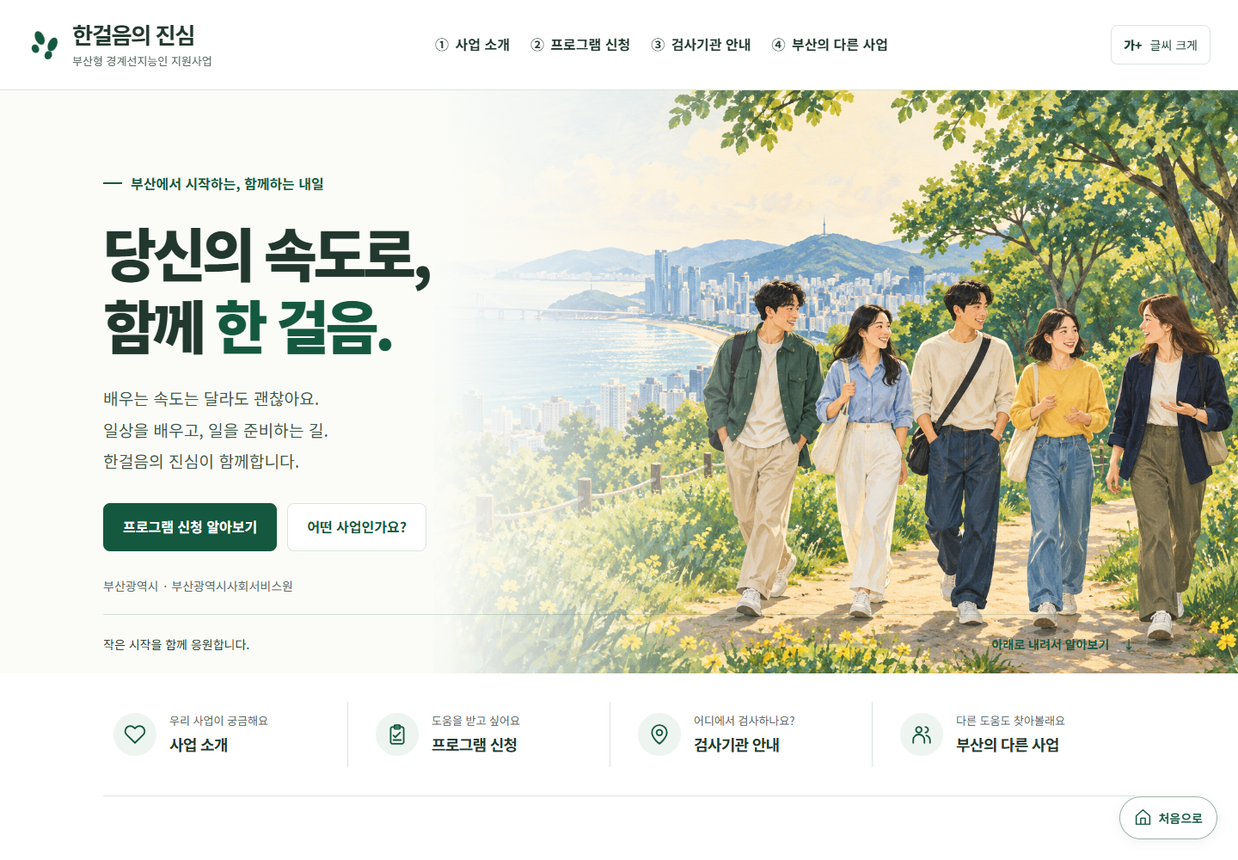
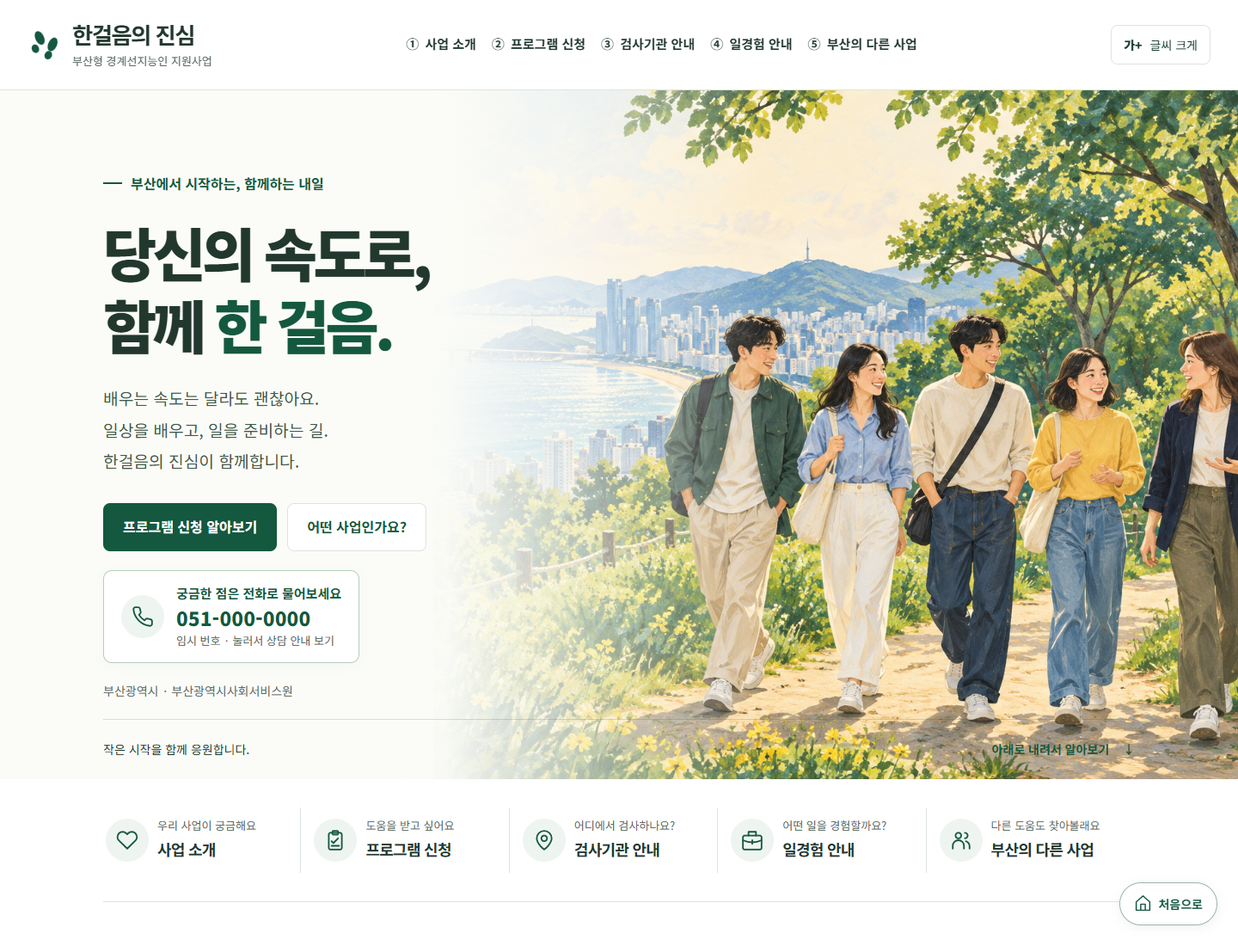
Add files via upload

diff --git a/backup/2026-10-06-before-update-1791297581331/index.html b/backup/2026-10-06-before-update-1791297581331/index.html
@@ -20,8 +20,7 @@
 <a href="#about"><span aria-hidden="true">①</span> 사업 소개</a>
 <a href="#apply"><span aria-hidden="true">②</span> 프로그램 신청</a>
 <a href="#partners"><span aria-hidden="true">③</span> 검사기관 안내</a>
-<a href="#experience"><span aria-hidden="true">④</span> 일경험 안내</a>
-<a href="#local"><span aria-hidden="true">⑤</span> 부산의 다른 사업</a>
+<a href="#local"><span aria-hidden="true">④</span> 부산의 다른 사업</a>
 </nav>
 <button class="text-control" id="text-size" type="button" aria-pressed="false"><span aria-hidden="true">가+</span> 글씨 크게</button>
 </div>
@@ -35,7 +34,6 @@
 <h1 id="hero-title">당신의 속도로,<br>함께 <span>한 걸음.</span></h1>
 <p class="hero-description">배우는 속도는 달라도 괜찮아요.<br>일상을 배우고, 일을 준비하는 길.<br>한걸음의 진심이 함께합니다.</p>
 <div class="hero-actions"><a class="button primary" href="#apply">프로그램 신청 알아보기</a><a class="button light" href="#about">어떤 사업인가요?</a></div>
-<button class="hero-contact" type="button" id="contact-open" aria-haspopup="dialog" aria-controls="contact-dialog"><span class="contact-icon" data-icon="phone"></span><span><strong>궁금한 점은 전화로 물어보세요</strong><span class="contact-number" data-contact-number>051-000-0000</span><small data-contact-temporary>임시 번호 · 눌러서 상담 안내 보기</small></span></button>
 <p class="hero-note">부산광역시 · 부산광역시사회서비스원</p>
 </div>
 </div>
@@ -46,7 +44,6 @@
 <a href="#about"><span class="quick-icon" data-icon="heart"></span><span><small>우리 사업이 궁금해요</small><strong>사업 소개</strong></span></a>
 <a href="#apply"><span class="quick-icon" data-icon="clipboard"></span><span><small>도움을 받고 싶어요</small><strong>프로그램 신청</strong></span></a>
 <a href="#partners"><span class="quick-icon" data-icon="pin"></span><span><small>어디에서 검사하나요?</small><strong>검사기관 안내</strong></span></a>
-<a href="#experience"><span class="quick-icon" data-icon="briefcase"></span><span><small>어떤 일을 경험할까요?</small><strong>일경험 안내</strong></span></a>
 <a href="#local"><span class="quick-icon" data-icon="people"></span><span><small>다른 도움도 찾아볼래요</small><strong>부산의 다른 사업</strong></span></a>
 </div>
 
@@ -62,16 +59,6 @@
 <article><span class="line-icon" data-icon="sun"></span><h4>가족과 아이를 위한 활동</h4><p>부모 교육과 아이들이<br>함께하는 축구 활동을 도와요.</p></article>
 </div><p class="muted">모임·부모 교육·축구 활동의 일정은 별도 안내를 확인해 주세요.</p></div>
 </div>
-<aside class="awareness-panel" aria-labelledby="awareness-title">
-<div class="awareness-heading"><p class="section-number">숫자로 알아보는 우리 이웃</p><h3 id="awareness-title">나만 겪는 어려움이 아니에요.</h3><p>경계선지능인은 우리 주변에서 함께 살아가는 이웃입니다.</p></div>
-<div class="awareness-grid">
-<figure class="population-figure"><figcaption><span>전체 인구 중 추정 비율</span><strong>약 <em>13.6</em>%</strong><span>100명 중 약 14명으로 생각하면 쉬워요.</span></figcaption><div class="population-waffle" aria-hidden="true"><span class="highlight"></span><span class="highlight"></span><span class="highlight"></span><span class="highlight"></span><span class="highlight"></span><span class="highlight"></span><span class="highlight"></span><span class="highlight"></span><span class="highlight"></span><span class="highlight"></span><span class="highlight"></span><span class="highlight"></span><span class="highlight"></span><span class="highlight"></span><span></span><span></span><span></span><span></span><span></span><span></span><span></span><span></span><span></span><span></span><span></span><span></span><span></span><span></span><span></span><span></span><span></span><span></span><span></span><span></span><span></span><span></span><span></span><span></span><span></span><span></span><span></span><span></span><span></span><span></span><span></span><span></span><span></span><span></span><span></span><span></span><span></span><span></span><span></span><span></span><span></span><span></span><span></span><span></span><span></span><span></span><span></span><span></span><span></span><span></span><span></span><span></span><span></span><span></span><span></span><span></span><span></span><span></span><span></span><span></span><span></span><span></span><span></span><span></span><span></span><span></span><span></span><span></span><span></span><span></span><span></span><span></span><span></span><span></span><span></span><span></span><span></span><span></span><span></span><span></span><span></span><span></span><span></span><span></span><span></span><span></span></div><p class="chart-caption"><span aria-hidden="true"></span> 초록 칸은 100명 중 약 14명을 뜻해요.</p></figure>
-<div class="busan-stat"><span class="line-icon" data-icon="people"></span><p>부산에서는</p><strong>약 <em>44만 5천</em> 명</strong><p>경계선지능인으로 추정해요.</p><small>2024년 9월 부산 인구를 기준으로 계산한 수치예요.</small></div>
-</div>
-<div class="awareness-message"><strong>필요한 도움을 일찍 만나면, 함께할 길이 넓어져요.</strong><p>검사로 나를 알아보고, 나에게 맞는 교육을 받으며,<br class="desktop-only"> 일상과 사회생활을 차근차근 준비하도록 돕는 것이 이 사업의 목적이에요.</p></div>
-<p class="statistics-source">출처: 부산연구원 「부산시 경계선지능인 지원방안」(2025), 본문 7~8쪽.<br>정확히 세어 본 인원은 아니에요. 보고서의 추정 비율 13.59%를 반올림했어요.</p>
-<div class="research-links"><a class="text-link" href="https://data.bdi.re.kr/Home/RPTView.mbz?action=MAPP_0000000007&amp;schIdx=2763" target="_blank" rel="noopener noreferrer">연구원 자료 보기<span class="sr-only"> (새 창)</span></a><a class="text-link" href="%EB%B6%80%EC%82%B0%EC%8B%9C%20%EA%B2%BD%EA%B3%84%EC%84%A0%EC%A7%80%EB%8A%A5%EC%9D%B8%20%EC%A7%80%EC%9B%90%EB%B0%A9%EC%95%88.pdf#page=19" target="_blank" rel="noopener noreferrer">연구보고서 PDF 보기<span class="sr-only"> (새 창)</span></a></div>
-</aside>
 </section>
 
 <section class="apply-section section" id="apply" aria-labelledby="apply-title"><div class="wrap">
@@ -97,27 +84,13 @@
 </div><p class="muted partner-footnote">방문 전 전화로 장소와 예약 방법을 확인해 주세요. 협약이 정해지면 기관 정보를 추가합니다.</p>
 </section>
 
-<section class="experience-section section" id="experience" aria-labelledby="experience-title"><div class="wrap">
-<div class="section-heading row-heading"><div><p class="section-number">04 · 일경험처 연계 기관</p><h2 id="experience-title">나에게 맞는 일,<br>직접 경험하며 찾아봐요.</h2><p>일경험은 실제 일하는 곳에서 일을 배워 보는 활동이에요.<br>관심 있는 분야를 알아보고, 나에게 맞는 일을 찾아가요.</p></div><span class="outline-label">연계 기관 찾는 중</span></div>
-<div class="experience-notice"><span class="line-icon" data-icon="info"></span><p>아래는 앞으로 준비하려는 일경험의 예시예요.<br>기관과 약속이 정해지면 장소와 참여 방법을 안내할게요.</p></div>
-<div class="experience-grid"><article class="experience-card"><div class="experience-top"><span class="experience-icon" data-icon="coffee"></span><span class="badge">연계 준비 중</span></div><h3>바리스타 일경험</h3><p>음료를 만들고, 손님을 맞이하는 일을 경험해요.</p><ul class="check-list"><li>커피와 음료 만들기</li><li>주문 받기와 매장 정리</li></ul><div class="experience-status"><strong>기관이 정해지면 알려드려요.</strong><span>장소 · 일정 · 참여 방법 안내 예정</span></div></article>
-<article class="experience-card"><div class="experience-top"><span class="experience-icon" data-icon="palette"></span><span class="badge">연계 준비 중</span></div><h3>디자인 일경험</h3><p>그림과 글을 활용해 안내 자료를 만드는 일을 경험해요.</p><ul class="check-list"><li>그림과 글 배치하기</li><li>간단한 홍보물 만들기</li></ul><div class="experience-status"><strong>기관이 정해지면 알려드려요.</strong><span>장소 · 일정 · 참여 방법 안내 예정</span></div></article>
-<article class="experience-card"><div class="experience-top"><span class="experience-icon" data-icon="suitcase"></span><span class="badge">연계 준비 중</span></div><h3>여행사 일경험</h3><p>여행을 준비하는 데 필요한 일을 경험해요.</p><ul class="check-list"><li>여행 안내 자료 정리하기</li><li>일정과 예약 업무 돕기</li></ul><div class="experience-status"><strong>기관이 정해지면 알려드려요.</strong><span>장소 · 일정 · 참여 방법 안내 예정</span></div></article>
-<article class="experience-card"><div class="experience-top"><span class="experience-icon" data-icon="roller"></span><span class="badge">연계 준비 중</span></div><h3>도배·장판 일경험</h3><p>벽지와 바닥재 작업을 돕는 일을 경험해요.</p><ul class="check-list"><li>도구와 재료 준비하기</li><li>안전교육 후 작업 돕기</li></ul><div class="experience-status"><strong>기관이 정해지면 알려드려요.</strong><span>장소 · 일정 · 참여 방법 안내 예정</span></div></article></div>
-<p class="experience-footnote">실제로 경험하는 일은 참여자의 관심과 기관 상황에 따라 달라질 수 있어요.</p>
-</div></section>
-
 <section class="local-section section" id="local" aria-labelledby="local-title"><div class="wrap">
-<div class="section-heading"><p class="section-number">05 · 부산의 다른 사업</p><h2 id="local-title">부산 곳곳에, 함께할 곳이 있어요.</h2><p>다른 기관의 프로그램도 알아보세요.<br>신청 기간과 참여 조건은 기관마다 달라요.</p></div>
+<div class="section-heading"><p class="section-number">04 · 부산의 다른 사업</p><h2 id="local-title">부산 곳곳에, 함께할 곳이 있어요.</h2><p>다른 기관의 프로그램도 알아보세요.<br>신청 기간과 참여 조건은 기관마다 달라요.</p></div>
 <div class="local-grid">
 <article class="local-card"><div class="local-card-top"><span class="region-label">수영구</span><span class="line-icon" data-icon="briefcase"></span></div><h3>차차스테이션</h3><p>경계선지능 청년이 일을 준비하고,<br>사회생활에 필요한 것을 배우는 사업이에요.<br>나에게 맞는 직무교육을 단계별로 배워요.</p><a class="button outlined" href="https://www.mois.go.kr/frt/bbs/type002/commonSelectBoardArticle.do?bbsId=BBSMSTR_000000000205&amp;nttId=114051" target="_blank" rel="noopener noreferrer">사업 소개 보기<span class="sr-only"> (새 창)</span></a><span class="source-caption">행정안전부 공개 사업 소개 · 현재 모집은 별도 확인</span></article>
 <article class="local-card"><div class="local-card-top"><span class="region-label">금정구</span><span class="line-icon" data-icon="book"></span></div><h3>느린학습자 평생교육</h3><p>성인 느린학습자를 위한 배움 프로그램이에요.<br>나를 이해하고, 앞으로 할 일을 생각하는<br>교육과 학습모임 소식을 확인할 수 있어요.</p><a class="button outlined" href="https://www.geumjeong.go.kr/board/view.geumj?boardId=BBS_0000223&amp;dataSid=977932&amp;menuCd=DOM_000000805001000000" target="_blank" rel="noopener noreferrer">교육 안내 보기<span class="sr-only"> (새 창)</span></a><span class="source-caption">금정구 평생학습 포털 · 현재 모집은 별도 확인</span></article>
-<article class="local-card"><div class="local-card-top"><span class="region-label">금정구 · 부산대학교</span><span class="line-icon" data-icon="book"></span></div><h3>PNU 미리내대학</h3><p>성인 느린학습자가 일상과 사람들과 지내는 방법을 배우는 교육이에요.<br>문화와 예술 활동을 함께하는 3년 과정이에요. 대학 학위가 나오는 과정은 아니에요.</p><a class="button outlined" href="https://sce.pusan.ac.kr/page?cateSeq=&amp;mainbbsTabIndex=0&amp;menuCD=000000000000561&amp;mode=DETAIL&amp;seq=2567&amp;typeSeqNo=1" target="_blank" rel="noopener noreferrer">미리내대학 안내 보기<span class="sr-only"> (새 창)</span></a><span class="source-caption">부산대학교 미래시민교육원 · 모집 일정 별도 확인</span></article>
-<article class="local-card"><div class="local-card-top"><span class="region-label">연제구 등 · 협동조합</span><span class="line-icon" data-icon="sprout"></span></div><h3>매일매일즐거워</h3><p>느린학습자를 위한 배움과 일할 기회를 만드는 곳이에요.<br>채소를 기르는 농장과 샐러드 만들기 등 여러 일을 바탕으로 직무교육을 소개하고 있어요.</p><a class="button outlined" href="https://bsec.or.kr/board/view/board_book?idx=5754" target="_blank" rel="noopener noreferrer">기관 소개 보기<span class="sr-only"> (새 창)</span></a><span class="source-caption">부산사회적경제지원센터 공개 자료 · 현재 참여 방법 문의</span></article>
-<article class="local-card"><div class="local-card-top"><span class="region-label">남구</span><span class="line-icon" data-icon="people"></span></div><h3>남구장애인복지관</h3><p>느린학습 아동이 사람들과 지내는 힘을 키우도록 돕는 프로그램을 운영한 곳이에요.<br>부모가 아이를 돕는 방법을 배우는 활동도 함께 소개하고 있어요.</p><a class="button outlined" href="https://www.namgurc.or.kr/about/sub3.php" target="_blank" rel="noopener noreferrer">복지관 안내 보기<span class="sr-only"> (새 창)</span></a><span class="source-caption">복지관 공개 사업 이력 · 현재 운영과 모집 별도 확인</span></article>
-<article class="local-card"><div class="local-card-top"><span class="region-label">남구 · 평생학습관</span><span class="line-icon" data-icon="book"></span></div><h3>남구 평생교육·상담 지원</h3><p>경계선지능인과 가족을 위한 검사·상담과 배움 프로그램을 안내해요.<br>마음을 표현하고 생활에 필요한 것을 배우는 교육 소식을 확인해 보세요.</p><a class="button outlined" href="https://lll.busan.go.kr/lll/index.do?bbsAttrbCode=BBSA03&amp;bbsId=BBS_00029&amp;bbsTyCode=BBST03&amp;menu_id=00003220&amp;menu_link=%2Ficms%2Fbbs%2FselectBoardArticle.do&amp;nttId=5951" target="_blank" rel="noopener noreferrer">프로그램 안내 보기<span class="sr-only"> (새 창)</span></a><span class="source-caption">부산평생학습플랫폼 공개 안내 · 현재 모집 별도 확인</span></article>
 </div>
-<aside class="cafe-panel"><div><h3>더 많은 프로그램이 궁금한가요?</h3><p>부산의 다른 기관과 새로운 모집 소식을<br>카페에서 함께 확인해 보세요.</p></div><a class="button light" href="https://cafe.naver.com/f-e/cafes/31763667/menus/25?viewType=W" target="_blank" rel="noopener noreferrer">카페에서 소식 보기<span class="sr-only"> (새 창)</span></a></aside>
+<aside class="cafe-panel"><div><h3>더 많은 프로그램이 궁금한가요?</h3><p>매일매일즐거워, 미리내대학, 남구장애인복지관 등<br>관련 프로그램 소식을 카페에서 확인해 보세요.</p></div><a class="button light" href="https://cafe.naver.com/f-e/cafes/31763667/menus/25?viewType=W" target="_blank" rel="noopener noreferrer">카페에서 소식 보기<span class="sr-only"> (새 창)</span></a></aside>
 <aside class="notice"><span class="line-icon" data-icon="info"></span><div><h3>신청 전에 꼭 확인해 주세요.</h3><p>같은 기간에 여러 사업의 지원을 받을 수 없는 경우가 있어요.<br>이미 참여 중인 프로그램이 있다면, 신청 전에 담당자에게 알려주세요.</p></div></aside>
 </div></section>
 
@@ -126,11 +99,4 @@
 <footer><div class="wrap footer-inner"><div><strong>한걸음의 진심</strong><p>부산형 경계선지능인 지원사업</p><small>부산광역시 · (재)부산광역시사회서비스원</small></div><div><a href="https://busan.pass.or.kr/" target="_blank" rel="noopener noreferrer">부산사회서비스원 홈페이지<span class="sr-only"> (새 창)</span></a><p>사업 안내와 모집 소식을 확인해 주세요.</p><small>이 페이지는 홈페이지 제작 초안입니다.</small></div></div></footer>
 <a class="home-float" href="#home"><span data-icon="home"></span> 처음으로</a>
 <dialog id="application-dialog" aria-labelledby="dialog-title" aria-describedby="dialog-description"><div class="dialog-content"><span class="line-icon" data-icon="clipboard"></span><h2 id="dialog-title">신청 페이지를 준비하고 있어요.</h2><p id="dialog-description">신청이 시작되면 이 버튼으로 신청할 수 있어요.<br>부산사회서비스원에서 모집 소식을 확인해 주세요.</p><a class="button primary" href="https://busan.pass.or.kr/" target="_blank" rel="noopener noreferrer">사회서비스원 소식 보기<span class="sr-only"> (새 창)</span></a><button class="button outlined" id="dialog-close" type="button">안내 닫기</button></div></dialog>
-<dialog id="contact-dialog" aria-labelledby="contact-title" aria-describedby="contact-description"><div class="dialog-content">
-<span class="line-icon" data-icon="phone"></span><h2 id="contact-title">궁금한 점을 함께 알아봐요.</h2>
-<p id="contact-description">프로그램 신청이나 지원 내용이 궁금한가요?<br>자세한 상담을 원하시면 아래 번호로 연락해 주세요.</p>
-<div class="contact-dialog-number" data-contact-number>051-000-0000</div>
-<p class="temporary-note" id="contact-temporary">현재는 임시 번호예요.<br>실제 상담 번호가 정해지면 안내해 드릴게요.</p>
-<a class="button primary" id="contact-call" hidden>이 번호로 전화하기</a><button class="button outlined" id="contact-close" type="button">안내 닫기</button>
-</div></dialog>
 </body></html>

diff --git a/backup/2026-10-06-before-update-1791297581331/styles.css b/backup/2026-10-06-before-update-1791297581331/styles.css
@@ -17,37 +17,3 @@ dialog{max-width:500px;width:calc(100% - 40px);border:1px solid var(--line);bord
 
 /* Keep cards usable at narrow widths and enlarged text. */
 .program-card,.partner-card,.local-card,.about-right,.definition-panel{min-width:0}.partner-actions{flex-wrap:wrap}.partner-card dd{min-width:0}.support-grid article,.quick-section>a{min-width:0}
-
-/* 2026-10: phone guidance, research infographic and work experiences */
-[hidden]{display:none!important}
-.header nav{gap:18px}.header nav a{font-size:.9375rem}
-.quick-section{grid-template-columns:repeat(5,minmax(0,1fr));gap:12px}.quick-section>a{padding:8px 3px;gap:10px}
-.hero-contact{display:flex;align-items:center;gap:14px;background:white;border:1px solid #b5cdbd;border-radius:10px;text-align:left;color:var(--green);padding:14px 20px;margin-top:22px;max-width:100%;box-shadow:0 3px 15px #173c3008}
-.hero-contact:hover{background:#eff6f0}.contact-icon{display:inline-flex;background:var(--pale);border-radius:50%;padding:12px;flex:none}
-.hero-contact strong{display:block;font-size:.9375rem;line-height:1.6}.contact-number{display:block;font-size:1.4rem;font-weight:800;letter-spacing:.01em;line-height:1.5}
-.hero-contact small{display:block;color:var(--muted);font-size:.8125rem;line-height:1.6}.hero-note{margin-top:20px}
-.contact-dialog-number{font-size:2rem;letter-spacing:.02em;font-weight:800;color:var(--green);margin:22px 0 12px;overflow-wrap:anywhere}
-.temporary-note{background:#f3f6f2;border-radius:8px;padding:14px}
-.awareness-panel{margin-top:56px;padding:36px 40px;background:#f6f8f3;border:1px solid #dce5d9;border-radius:16px}
-.awareness-heading{margin-bottom:30px}.awareness-heading .section-number{margin-bottom:10px}.awareness-heading h3{font-size:1.75rem;margin-bottom:10px}.awareness-heading>p:last-child{color:var(--muted);font-size:1rem;margin:0}
-.awareness-grid{display:grid;grid-template-columns:1.15fr 1fr;gap:40px}
-.population-figure{margin:0;min-width:0}.population-figure figcaption>span{display:block;font-size:1rem;color:var(--muted)}.population-figure figcaption>strong{display:block;font-size:1.5rem;color:var(--green);line-height:1.3;margin:10px 0}
-.population-figure em{font-size:3.75rem;font-weight:800;font-style:normal;letter-spacing:-.06em}
-.population-waffle{display:grid;grid-template-columns:repeat(20,minmax(0,1fr));gap:4px;max-width:380px;margin-top:22px}
-.population-waffle span{aspect-ratio:1;border-radius:3px;background:#d6e1d6}.population-waffle .highlight{background:var(--green)}
-.chart-caption{font-size:.875rem;color:var(--muted);margin:12px 0 0;display:flex;align-items:center;gap:8px}.chart-caption>span{width:11px;height:11px;background:var(--green);border-radius:2px;flex:none}
-.busan-stat{border-left:1px solid #d0ddce;padding-left:40px;display:flex;flex-direction:column;justify-content:center;min-width:0}
-.busan-stat .line-icon{margin-bottom:18px}.busan-stat p{font-size:1rem;margin-bottom:8px;color:var(--muted)}.busan-stat>strong{font-size:1.25rem;line-height:1.5;color:var(--green);margin:0 0 8px;letter-spacing:-.05em}.busan-stat em{font-size:2.3rem;font-style:normal;font-weight:800}.busan-stat small{font-size:.875rem;color:var(--muted)}
-.awareness-message{margin-top:30px;border-top:1px solid #d0ddce;padding-top:24px}.awareness-message>strong{font-size:1.125rem;color:var(--green)}.awareness-message p{font-size:1rem;color:var(--muted);margin:10px 0 0}
-.statistics-source{font-size:.875rem;color:var(--muted);margin:24px 0 0}.research-links{display:flex;gap:24px;flex-wrap:wrap;margin-top:8px}.research-links .text-link{font-size:.9375rem}
-.experience-section{background:#f0f5f2}.experience-notice{display:flex;gap:14px;align-items:flex-start;padding:20px 24px;background:white;border:1px solid var(--line);border-radius:10px;margin-bottom:28px}
-.experience-notice .line-icon{margin:3px 0 0;flex:none}.experience-notice p{margin:0;font-size:1rem;color:var(--muted)}
-.experience-grid{display:grid;grid-template-columns:repeat(4,minmax(0,1fr));gap:20px}.experience-card{padding:25px 22px;background:white;border:1px solid var(--line);border-radius:12px;min-width:0;display:flex;flex-direction:column}
-.experience-top{display:flex;justify-content:space-between;align-items:center;gap:8px;margin-bottom:24px;flex-wrap:wrap}.experience-icon{display:inline-flex;padding:10px;background:var(--pale);color:var(--green);border-radius:10px}
-.experience-card h3{font-size:1.375rem;margin-bottom:14px}.experience-card>p{font-size:1rem;color:var(--muted);margin-bottom:20px}.experience-card .check-list{font-size:.9375rem;margin-bottom:22px}
-.experience-status{margin-top:auto;border-top:1px solid var(--line);padding-top:17px}.experience-status strong,.experience-status span{display:block;font-size:.875rem}.experience-status strong{color:var(--green);margin-bottom:5px}.experience-status span{color:var(--muted)}
-.experience-footnote{font-size:.9375rem;color:var(--muted);margin:22px 0 0}
-@media(max-width:1200px){.header nav{gap:25px}.quick-section{grid-template-columns:repeat(3,minmax(0,1fr));gap:15px}.quick-section>a{border:0}.experience-grid{grid-template-columns:repeat(2,minmax(0,1fr))}}
-@media(max-width:800px){html{scroll-padding-top:220px}.header nav{gap:5px 18px}.header nav a{font-size:.9375rem}.quick-section{grid-template-columns:repeat(2,minmax(0,1fr))}.hero-contact{padding:13px 15px;width:100%;gap:12px}.hero-contact strong{font-size:.9375rem}.hero-contact .contact-icon{padding:10px}.awareness-panel{padding:26px 24px;margin-top:36px}.awareness-heading h3{font-size:1.5rem}.awareness-grid{grid-template-columns:1fr;gap:26px}.busan-stat{border-left:0;border-top:1px solid #d0ddce;padding:24px 0 0}.busan-stat .line-icon{margin-bottom:12px}.population-waffle{gap:3px}.population-figure em{font-size:3rem}.chart-caption{font-size:.8125rem;align-items:flex-start}.busan-stat em{font-size:2rem}.desktop-only{display:none}.research-links{gap:8px 22px}.experience-notice{padding:20px}.experience-card{padding:25px}.large-text .quick-section{grid-template-columns:1fr}.large-text .header nav{gap:2px 12px}.large-text .header nav a{font-size:.8rem}.large-text .contact-number{font-size:1.25rem}.large-text .hero-contact strong{font-size:.85rem}.large-text .hero-contact small{font-size:.7rem}}
-@media(max-width:600px){.experience-grid{grid-template-columns:1fr}}
-@media(max-width:380px){.quick-section{grid-template-columns:1fr}.awareness-panel{padding:24px 20px}.hero-contact{gap:10px;padding:13px 12px}.hero-contact .contact-icon{padding:8px}.contact-dialog-number{font-size:1.6rem}}

diff --git a/backup/2026-10-06-before-update-1791297581331/script.js b/backup/2026-10-06-before-update-1791297581331/script.js
@@ -1,11 +1,6 @@
 "use strict";
 (() => {
   const paths = {
-    coffee: '<path d="M3 8h14v9a4 4 0 0 1-4 4H7a4 4 0 0 1-4-4ZM17 8h2a3 3 0 0 1 0 6h-2M7 2v3M12 2v3"/>',
-    palette: '<path d="M12 3a9 9 0 1 0 0 18h1a2 2 0 0 0 1-3.7 2 2 0 0 1 1-3.7h2a4 4 0 0 0 4-4c0-4-4-6.6-9-6.6Z"/><circle cx="7" cy="9" r="1"/><circle cx="11" cy="6" r="1"/><circle cx="16" cy="8" r="1"/><circle cx="6" cy="14" r="1"/>',
-    suitcase: '<rect x="4" y="6" width="16" height="15" rx="2"/><path d="M9 6V3h6v3M8 6v15M16 6v15M7 21v1M17 21v1"/>',
-    roller: '<rect x="3" y="3" width="14" height="6" rx="1"/><path d="M17 6h4v7H11v3"/><rect x="9" y="16" width="4" height="6" rx="1"/>',
-    sprout: '<path d="M12 22V12M12 15C5 15 3 11 3 6c7 0 9 4 9 9ZM12 11c0-6 3-9 9-9 0 6-3 9-9 9Z"/>',
     heart: '<path d="M20.8 4.6a5.5 5.5 0 0 0-7.8 0L12 5.7l-1.1-1.1a5.5 5.5 0 0 0-7.8 7.8L12 21l8.8-8.6a5.5 5.5 0 0 0 0-7.8Z"/>',
     clipboard: '<rect x="5" y="4" width="14" height="18" rx="2"/><rect x="9" y="2" width="6" height="4" rx="1"/><path d="m8 13 2 2 5-5M8 18h8"/>',
     pin: '<path d="M20 10c0 6-8 12-8 12S4 16 4 10a8 8 0 1 1 16 0Z"/><circle cx="12" cy="10" r="3"/>',
@@ -71,35 +66,6 @@
   dialog.addEventListener("click", event => {
     const rect = dialog.getBoundingClientRect();
     if (event.target === dialog && (event.clientX < rect.left || event.clientX > rect.right || event.clientY < rect.top || event.clientY > rect.bottom)) dialog.close();
-  });
-  // 상담 번호는 site-config.js에서 관리합니다. 임시 번호에는 전화 연결을 만들지 않습니다.
-  const contactDialog = document.getElementById("contact-dialog");
-  const contactOpen = document.getElementById("contact-open");
-  const contactClose = document.getElementById("contact-close");
-  const contactCall = document.getElementById("contact-call");
-  const contact = (window.SITE_CONFIG || {}).contact || {};
-  const phoneNumber = String(contact.number || "051-000-0000").trim();
-  const callable = contact.isTemporary === false && /^0[0-9-]{8,15}$/.test(phoneNumber) && phoneNumber !== "051-000-0000";
-  document.querySelectorAll("[data-contact-number]").forEach(el => { el.textContent = phoneNumber; });
-  if (callable) {
-    contactCall.href = "tel:" + phoneNumber.replace(/-/g, "");
-    contactCall.hidden = false;
-    document.getElementById("contact-temporary").hidden = true;
-    document.querySelector("[data-contact-temporary]").textContent = "눌러서 상담 안내 보기";
-  }
-  contactOpen.addEventListener("click", () => {
-    if (typeof contactDialog.showModal !== "function") {
-      window.alert("궁금한 점은 " + phoneNumber + "로 문의해 주세요." + (callable ? "" : " 현재는 임시 번호예요."));
-      return;
-    }
-    contactDialog.showModal();
-    contactClose.focus();
-  });
-  contactClose.addEventListener("click", () => contactDialog.close());
-  contactDialog.addEventListener("close", () => contactOpen.focus());
-  contactDialog.addEventListener("click", event => {
-    const rect = contactDialog.getBoundingClientRect();
-    if (event.target === contactDialog && (event.clientX < rect.left || event.clientX > rect.right || event.clientY < rect.top || event.clientY > rect.bottom)) contactDialog.close();
   });
   if ("IntersectionObserver" in window) {
     const links = [...document.querySelectorAll(".header nav a")];

diff --git a/backup/2026-10-06-before-update-1791297581331/site-config.js b/backup/2026-10-06-before-update-1791297581331/site-config.js
@@ -3,7 +3,5 @@
 // 접수가 끝나면 주소를 비우세요. 현재 모집 중일 때만 주소를 연결하세요.
 window.SITE_CONFIG = {
   diagnosis: { url: "", label: "진단검사 신청하기" },
-  education: { url: "", label: "자립교육 신청하기" },
-  // 실제 상담 번호로 바꾸고 isTemporary를 false로 바꾸면 전화 버튼이 표시됩니다.
-  contact: { number: "051-000-0000", isTemporary: true }
+  education: { url: "", label: "자립교육 신청하기" }
 };

diff --git a/backup/2026-10-06-before-update-1791297581331/CONTENT-SOURCES.md b/backup/2026-10-06-before-update-1791297581331/CONTENT-SOURCES.md
@@ -44,33 +44,3 @@ assets/hero.png는 내장 ImageGen으로 새로 생성한 일러스트입니다.
 생성 프롬프트: 부산 바다가 보이는 녹색 공원에서 한국 청년들과 조력자가 동등하고 편안하게
 함께 걷는 모습을, 초록·노랑·파랑 팔레트의 종이 질감 수채화/과슈 일러스트로 표현.
 텍스트·로고·워터마크·의료 이미지 없이 차분하고 존중하는 분위기.
-
-## 2026-10-06 업데이트에서 확인한 자료
-### 부산연구원 보고서
-사용자 제공 PDF: 부산시 경계선지능인 지원방안.pdf
-발행: 2025년 3월, 박주홍·최윤정·허정윤.
-https://data.bdi.re.kr/Home/RPTView.mbz?action=MAPP_0000000007&schIdx=2763
-- 본문 7쪽(PDF 19쪽): 지능의 정규분포를 이용한 추정 비율 13.59%. 실측 인구 비율이 아닙니다.
-- 본문 8쪽(PDF 20쪽), 표 2-2: 2024년 9월 부산 인구 3,273,473명 × 13.59% = 444,864명(보고서 표).
-- 홈페이지에는 약 13.6%, 100명 중 약 14명, 부산 약 44만 5천 명으로 반올림해 표시합니다.
-- 100칸 그림의 14칸은 쉬운 이해를 위한 반올림 표현입니다.
-- 본문 24~25쪽(PDF 36~37쪽): 미리내대학 교육, 매일매일즐거워의 스마트팜·직무교육 사례.
-- 지원을 일찍 확인하고 맞춤형 교육을 연결하자는 사업 목적은 보고서의 조기 발견·지원 권고를 쉬운 말로 재구성했습니다.
-
-### 추가 기관 카드
-- 미리내대학: 부산대학교 미래시민교육원 모집 안내. 3년제 비학위 과정과 문화예술·생활·사회기술 중심 교육을 안내합니다.
-  https://sce.pusan.ac.kr/page?cateSeq=&mainbbsTabIndex=0&menuCD=000000000000561&mode=DETAIL&seq=2567&typeSeqNo=1
-  구체적인 현재 모집 기간·연령·비용은 단정하지 않았습니다.
-- 매일매일즐거워: 부산사회적경제지원센터 기관 소개와 사용자 제공 연구보고서. 스마트팜·샐러드 업무와 직무교육 사례를 안내합니다.
-  https://bsec.or.kr/board/view/board_book?idx=5754
-- 남구장애인복지관: 복지관 연혁에 기재된 2024년 느린 학습아동 사회적응력증진·양육 코칭 사업 이력.
-  https://www.namgurc.or.kr/about/sub3.php
-  과거 운영 이력을 근거로 소개하며 현재 운영·모집은 별도 확인으로 표시합니다.
-- 남구평생학습관: 부산평생학습플랫폼의 2026년 검사·상담·평생교육 안내 및 음악창작 교육 사례.
-  https://lll.busan.go.kr/lll/index.do?bbsAttrbCode=BBSA03&bbsId=BBS_00029&bbsTyCode=BBST03&menu_id=00003220&menu_link=%2Ficms%2Fbbs%2FselectBoardArticle.do&nttId=5951
-  https://lll.busan.go.kr/yeyak/ilms/learning/learningDetail.do?lng_id=LEARNING_00087882
-
-### 사용자 요청을 반영한 계획 영역
-바리스타·디자인·여행사·도배장판은 향후 준비할 일경험 분야의 예시입니다.
-기관명·모집·협약·채용·구체적인 직무가 확정됐다는 의미가 아닙니다.
-051-000-0000은 사용자 요청에 따른 임시 상담 번호입니다. 실제 전화 연결은 만들지 않았습니다.

diff --git a/backup/2026-10-06-before-update-1791297581331/README.md b/backup/2026-10-06-before-update-1791297581331/README.md
@@ -46,25 +46,3 @@ window.SITE_CONFIG = {
 - 신청 시작과 함께 footer의 제작 초안 문구를 실제 운영 문구로 수정하세요.
 - 타 기관 현재 모집 여부와 중복 지원 조건은 담당자에게 확인하세요.
 - 큰 글씨 버튼, 키보드 이동, 휴대전화 화면, 실제 신청 링크를 확인하세요.
-
-## 2026-10-06 추가 업데이트
-- 메뉴는 ① 사업 소개 ② 프로그램 신청 ③ 검사기관 안내 ④ 일경험 안내 ⑤ 부산의 다른 사업입니다.
-- 사업 소개에 인구 약 13.6%, 부산 약 44만 5천 명의 추정 수치와 쉬운 그림을 넣었습니다.
-  부산 수치는 2024년 9월 인구를 기준으로 한 추정입니다. 현재 전수조사 수치가 아닙니다.
-- PDF 원문과 부산연구원 소개 페이지를 연결했습니다. 저장소에도 '부산시 경계선지능인 지원방안.pdf'를 함께 올려야 PDF 링크가 작동합니다.
-- 일경험 예시: 바리스타, 디자인, 여행사, 도배·장판. 모두 기관 발굴·협약 전입니다.
-- 다른 기관: 차차스테이션, 금정구 평생교육, 미리내대학, 매일매일즐거워, 남구장애인복지관, 남구평생학습관.
-- 첫 화면에서 상담 안내창을 열 수 있습니다. 현재 051-000-0000은 임시 번호이며 전화 연결 버튼은 표시하지 않습니다.
-
-### 실제 상담 번호 설정
-site-config.js의 contact.number를 실제 번호로, contact.isTemporary를 false로 바꾸세요.
-실제 번호가 입력되면 안내창에 전화 연결 버튼이 표시됩니다.
-현재 예시 번호 051-000-0000은 연결되지 않습니다.
-
-### 일경험 기관을 추가할 때
-index.html에서 id="experience"인 영역의 카드를 수정하거나 복사하세요.
-기관이 확정되면 '연계 준비 중'을 바꾸고 기관명·장소·연락처·일정·참여방법을 넣으세요.
-확정되지 않은 예시를 신청 가능한 프로그램처럼 표시하지 마세요.
-
-### 수정 전 파일
-backup 폴더에 이번 수정 전 소스를 보관했습니다. backup과 preview 폴더는 공개 홈페이지에 올릴 필요가 없습니다.
